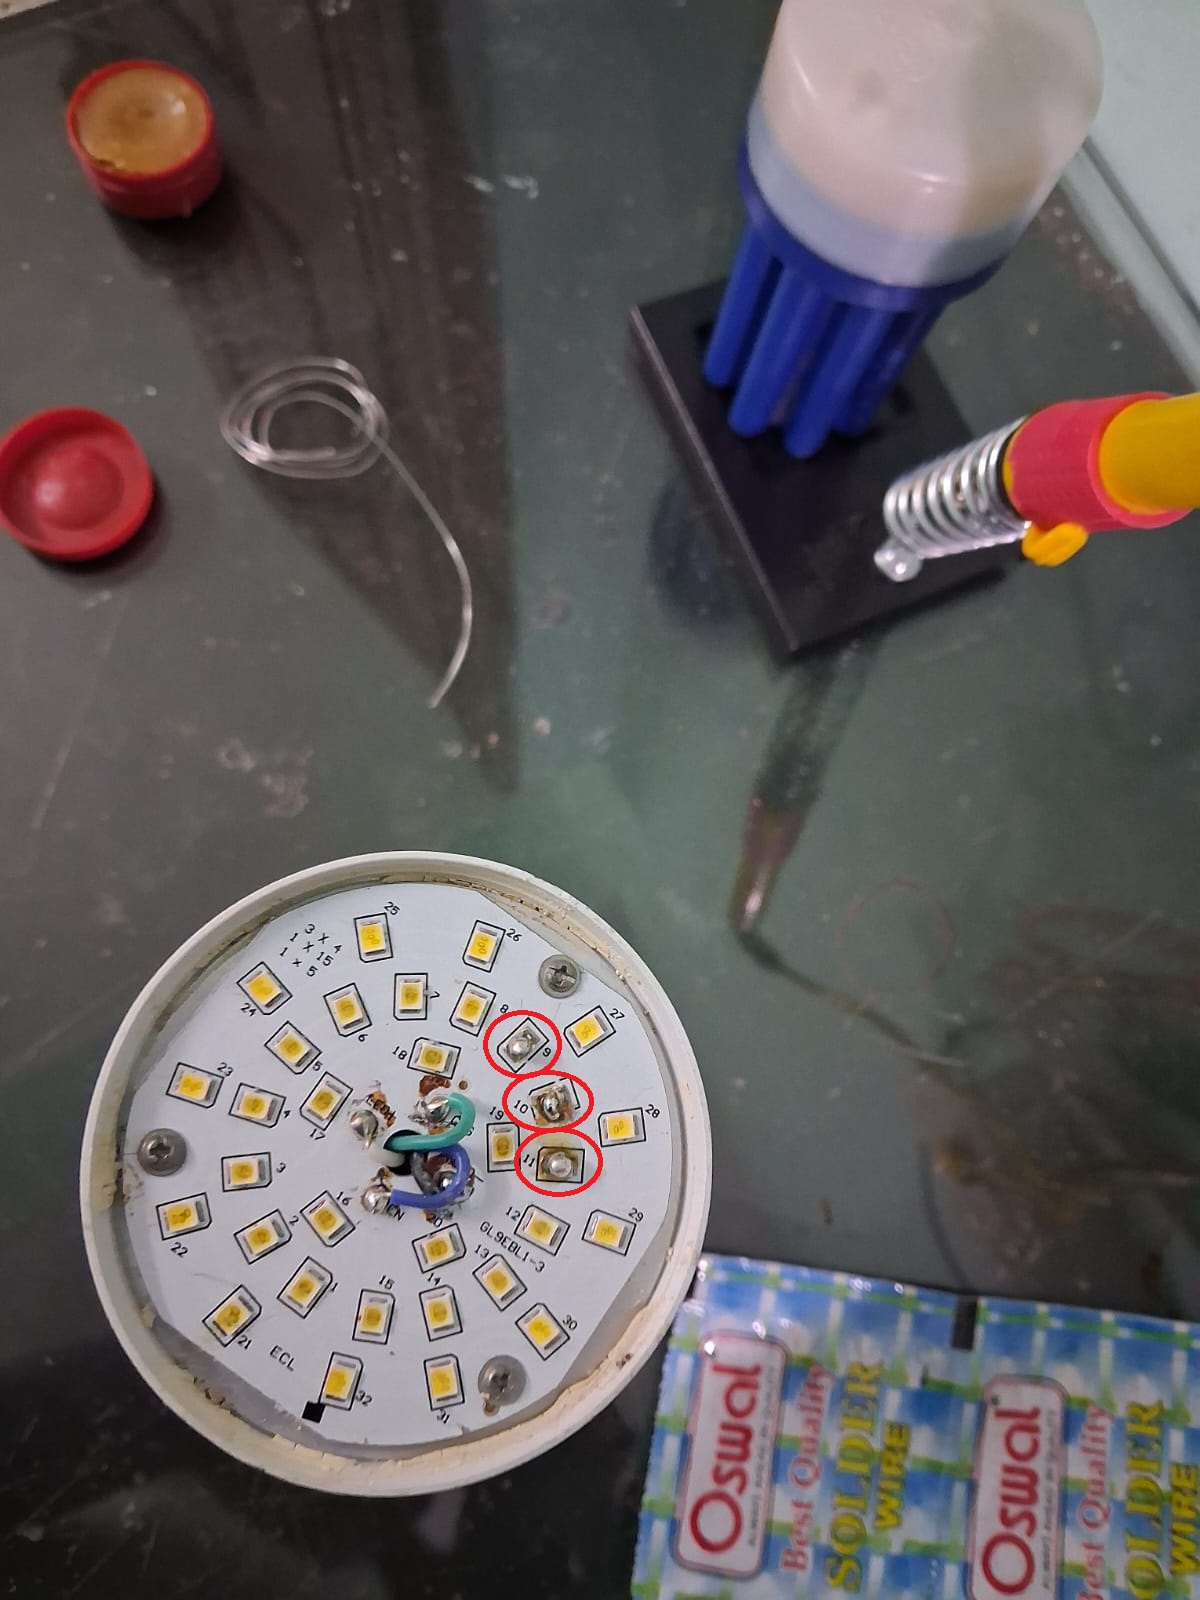
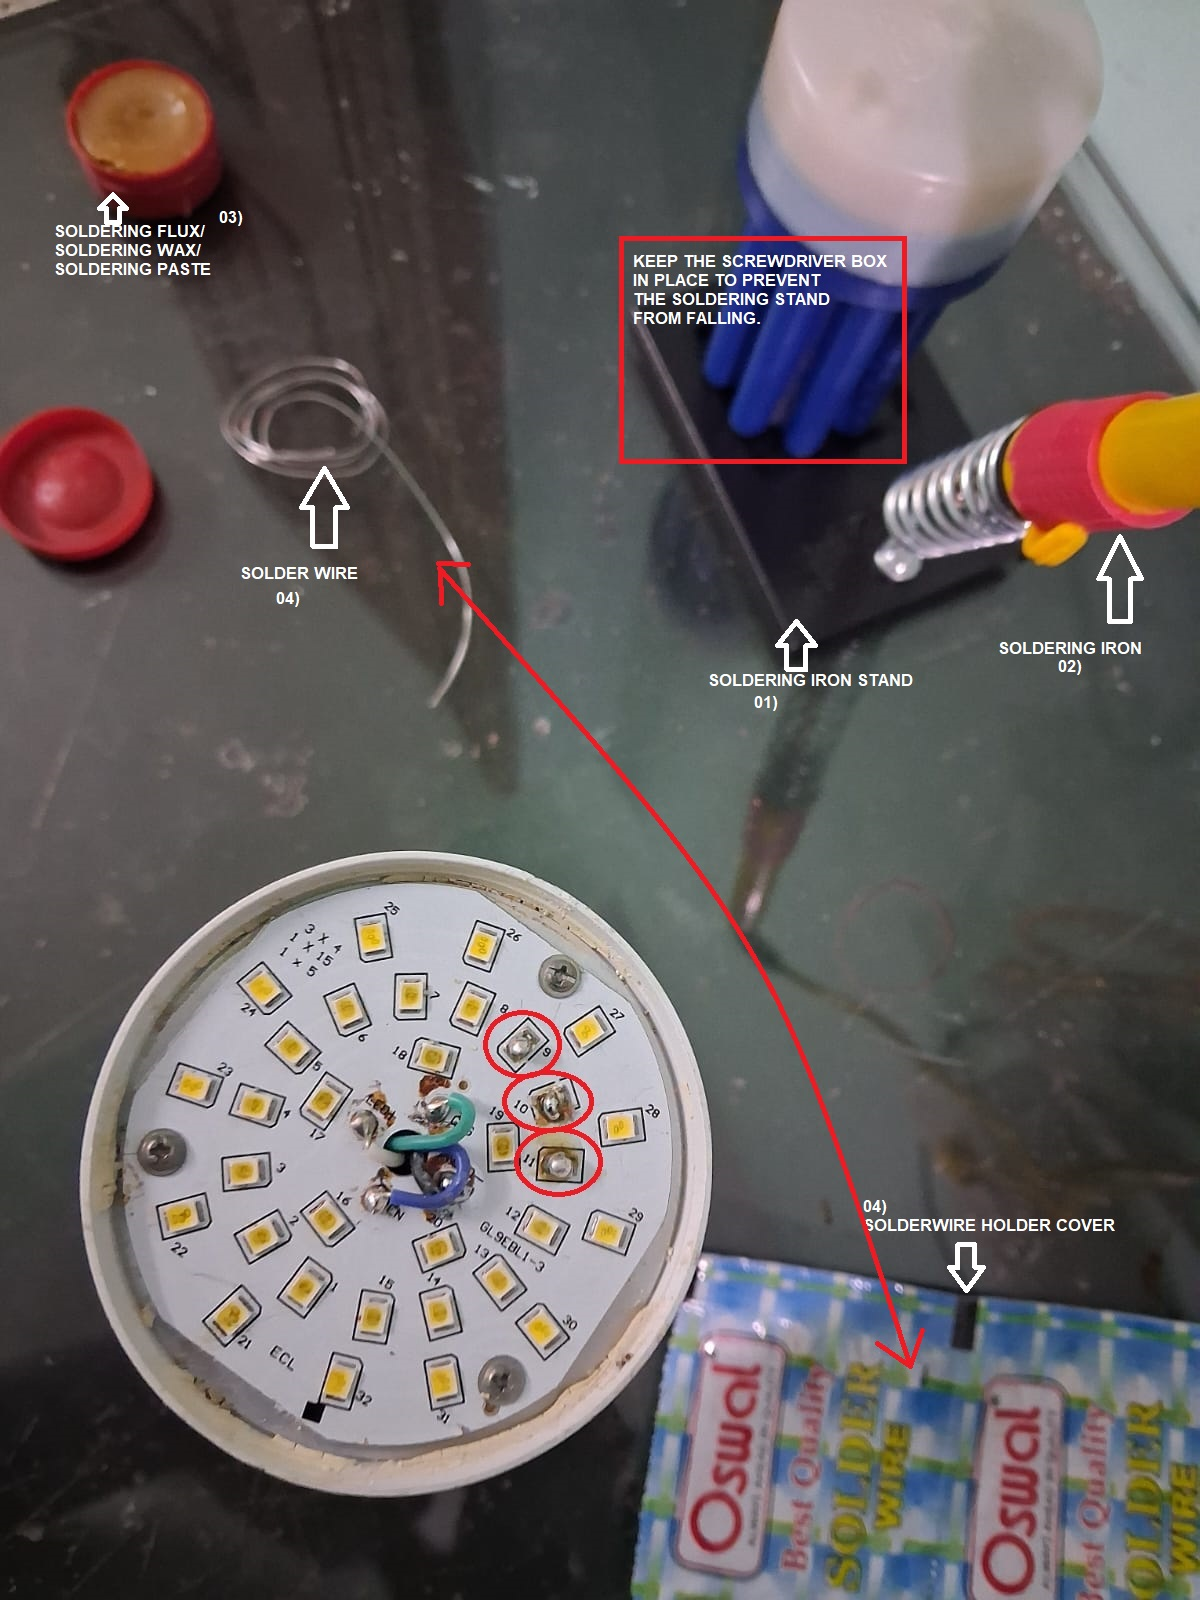
updated
updated

diff --git a/how-repair-led-help.html b/how-repair-led-help.html
@@ -28,6 +28,7 @@
 						<TR>
 							<TD valign='top' align='right'>
 								<P>I scratched them carefully using a SCREWDRIVER OR SAFETY PIN.</P>
+								Keep the screw driver box above the soldering stand for not making the stand to fell down.
 							</TD>
 							<TD valign='top' align='left'>
 								LED BULB AFTER SCRATCHING?<BR>
@@ -36,6 +37,7 @@
 						</TR>
 						<TR>
 							<TD valign='top' align='right'>
+								<P>Keep the screw driver box above the soldering stand for not making the stand to fell down.</P>
 								<P>Then I soldered LED 9, 10, and 11 using a soldering machine.</P>
 								<P>Before repair, the 2nd and 3rd rounds used to switch off and switch on repeatedly when the LED bulb was turned on.</P>
 								<P>After soldering and reassembling the LED bulb by hand, the issue was resolved successfully.</P>